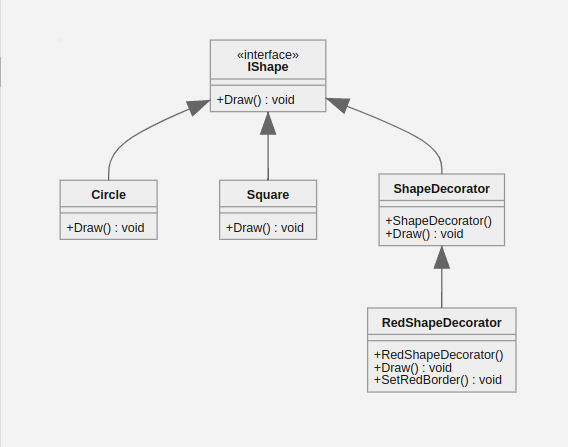
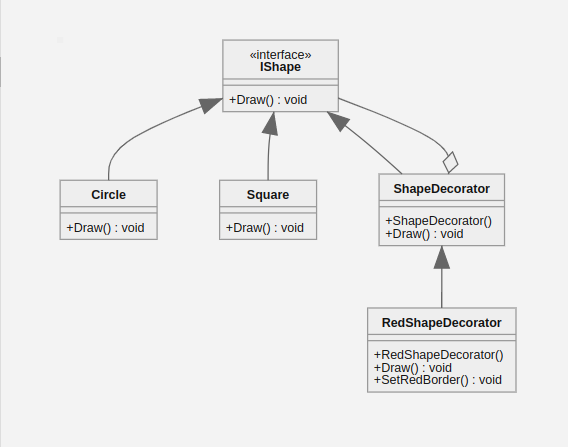
edited decorator

diff --git a/Decorator.md b/Decorator.md
@@ -1,17 +1,18 @@
 ```mermaid
 
 	classDiagram
-    
+	
 	class IShape
 	<<interface>> IShape
 	IShape : +Draw() void
 	
 	IShape <|-- Circle : 
+	
 	Circle : +Draw() void
 	
 	IShape <|-- Square : 
 	Square : +Draw() void
-	
+	ShapeDecorator  o--  IShape : 
 	IShape <|-- ShapeDecorator : 
 	ShapeDecorator : +ShapeDecorator()
 	ShapeDecorator : +Draw() void
